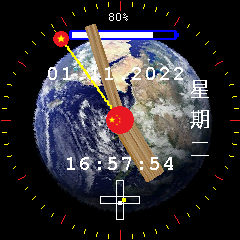
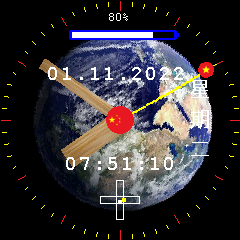
pwood image updated

diff --git a/main.c b/main.c
@@ -1360,10 +1360,10 @@ int main(void)
     sleep_ms(400);  // reboot takes about 1.6 sec. -> increase time by 2sec, wait 0.4sec
     //plosa->spin=1;
     //plosa->gfxmode=GFX_ROTATE;
-    plosa->pointerdemo=true;
+    plosa->pointerdemo=false;
     plosa->pstyle=2;
     plosa->theme_pos=0;
-    plosa->texture=2;
+    plosa->texture=0;
     lcd_init();
     lcd_make_cosin();
     //printf("sin0=%f\n",gcosin(0));
